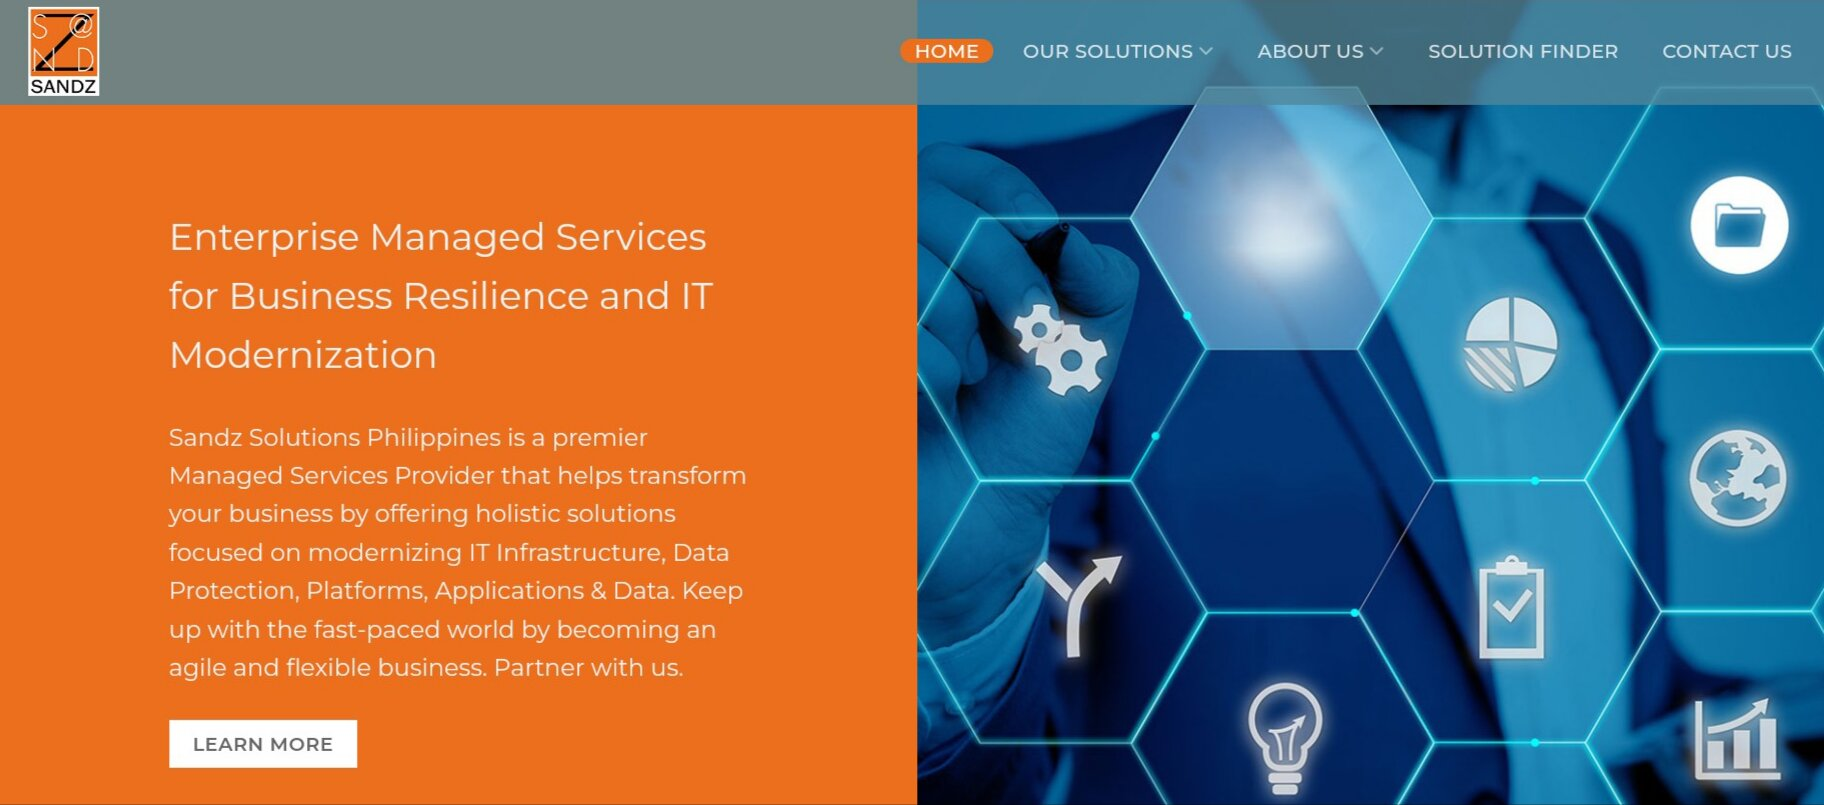
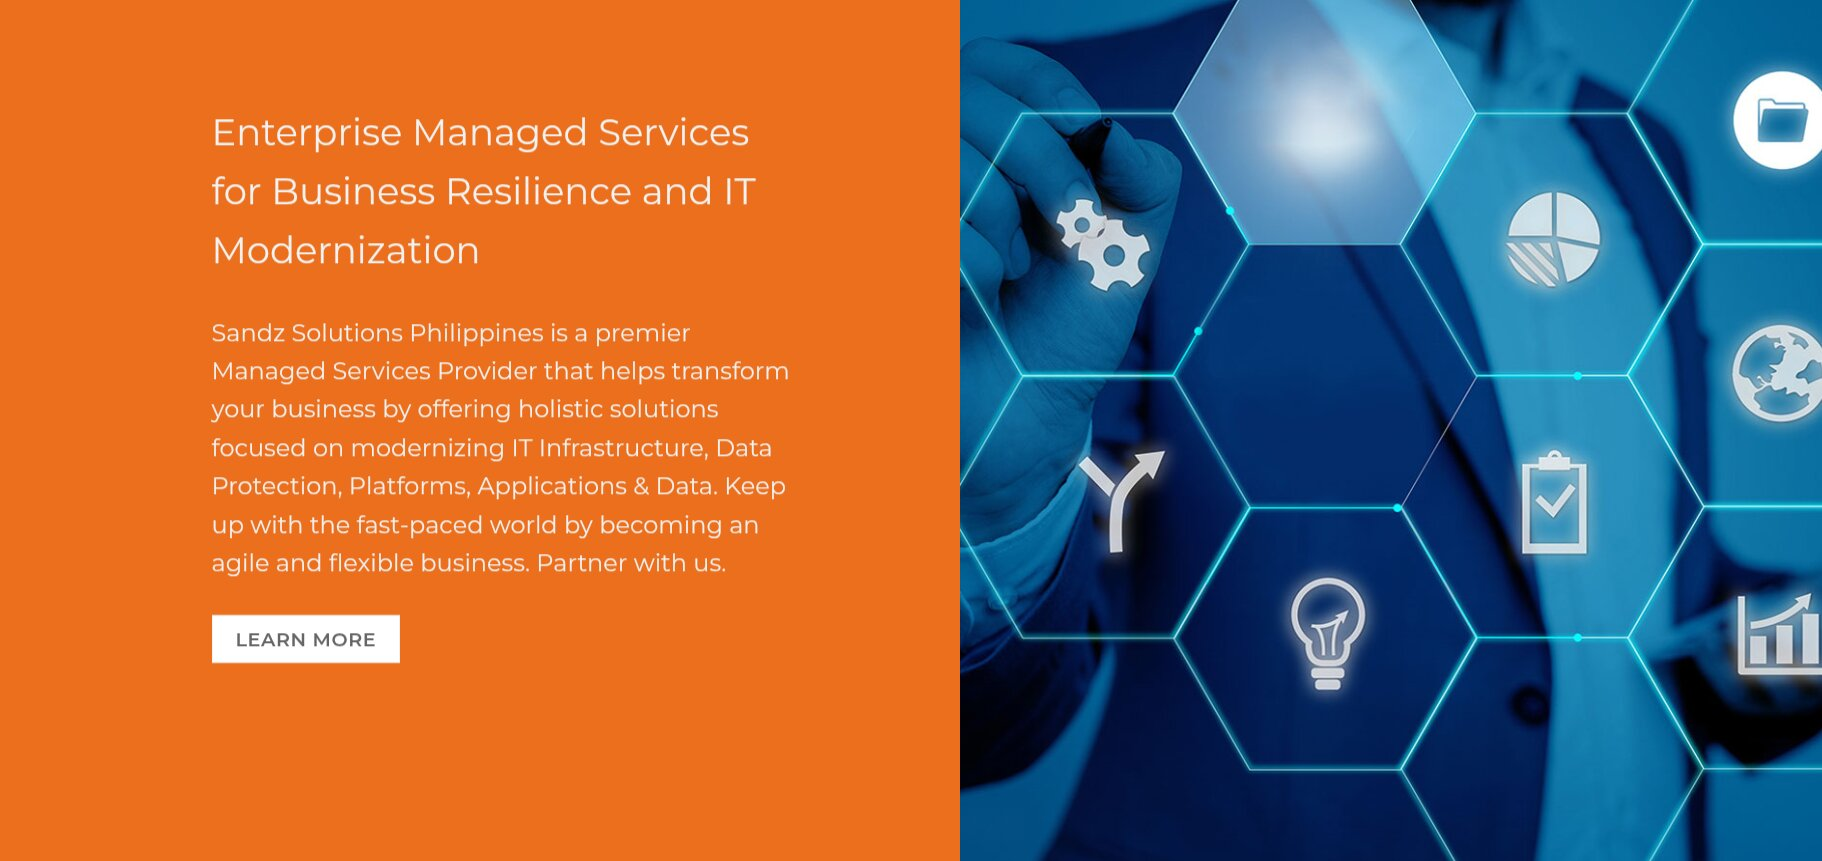
Login background: drop the site menu bar, link LEARN MORE to sandz.com
Swaps in a taller capture of the hero with the menu bar cropped off and
the slider arrows/dots removed, and lays a real link to https://sandz.com
over the artwork's LEARN MORE button. The background is now sized as a
left-anchored cover box with the image's own aspect ratio so the link,
positioned in image-relative percentages, stays on the button at any
viewport size.

Claude-Session: https://claude.ai/code/session_01L2d3bvj13nRntXRpouYT5X

diff --git a/src/app/(login)/login/page.tsx b/src/app/(login)/login/page.tsx
@@ -2,6 +2,15 @@ import Image from 'next/image'
 import { LoginForm } from '@/components/auth/LoginForm'
 import { safeNextPath } from '@/lib/mcp/redirects'
 
+// Natural size of public/images/login-background.jpg, and where its baked-in
+// LEARN MORE button sits within it (pixels) -- the link below is laid over
+// that spot, so these must be updated together if the image is replaced.
+const BG_WIDTH = 1822
+const BG_HEIGHT = 861
+const LEARN_MORE = { x: 212, y: 615, width: 188, height: 47 }
+
+const pct = (n: number, of: number) => `${(n / of) * 100}%`
+
 // Lives in its own (login) route group rather than (auth) so it can be a
 // full-bleed page: (auth)/layout.tsx centres a narrow column under an
 // "Ember" heading, which suits the other auth forms but not a full-screen
@@ -9,18 +18,41 @@ import { safeNextPath } from '@/lib/mcp/redirects'
 export default async function LoginPage({ searchParams }: { searchParams: Promise<{ next?: string }> }) {
   const { next } = await searchParams
   return (
-    <div className="relative isolate flex min-h-screen flex-1 items-center justify-center px-4 py-16 lg:justify-end lg:px-12 xl:px-20">
-      {/* Anchored left so the artwork's headline stays in view; the card
-          sits over the right-hand photo. Decorative, hence alt="". */}
-      <Image
-        src="/images/login-background.jpg"
-        alt=""
-        fill
-        priority
-        sizes="100vw"
-        className="-z-10 object-cover"
-        style={{ objectPosition: 'left center' }}
-      />
+    <div className="relative isolate flex min-h-dvh flex-1 items-center justify-center overflow-hidden px-4 py-16 lg:justify-end lg:px-12 xl:px-20">
+      {/* Hand-rolled "cover", anchored left, instead of next/image's fill +
+          object-cover: the box keeps the image's own aspect ratio, so the
+          LEARN MORE link can be positioned in image-relative percentages
+          and stays on the button at any viewport size. */}
+      <div
+        className="absolute left-0 top-1/2 -z-10 -translate-y-1/2"
+        style={{
+          width: `max(100%, calc(100dvh * ${BG_WIDTH} / ${BG_HEIGHT}))`,
+          aspectRatio: `${BG_WIDTH} / ${BG_HEIGHT}`,
+        }}
+      >
+        <Image
+          src="/images/login-background.jpg"
+          alt=""
+          width={BG_WIDTH}
+          height={BG_HEIGHT}
+          priority
+          sizes="100vw"
+          className="h-full w-full"
+        />
+        <a
+          href="https://sandz.com"
+          target="_blank"
+          rel="noopener noreferrer"
+          aria-label="Learn more at Sandz.com (opens in a new tab)"
+          className="absolute rounded-sm transition hover:bg-black/5 hover:ring-2 hover:ring-white focus-visible:outline-none focus-visible:ring-2 focus-visible:ring-white"
+          style={{
+            left: pct(LEARN_MORE.x, BG_WIDTH),
+            top: pct(LEARN_MORE.y, BG_HEIGHT),
+            width: pct(LEARN_MORE.width, BG_WIDTH),
+            height: pct(LEARN_MORE.height, BG_HEIGHT),
+          }}
+        />
+      </div>
       <div className="w-full max-w-sm rounded-lg border border-white/40 bg-white/95 p-6 shadow-xl backdrop-blur sm:p-8">
         <h1 className="mb-6 text-2xl font-semibold tracking-tight">Ember</h1>
         <LoginForm next={safeNextPath(next)} />
